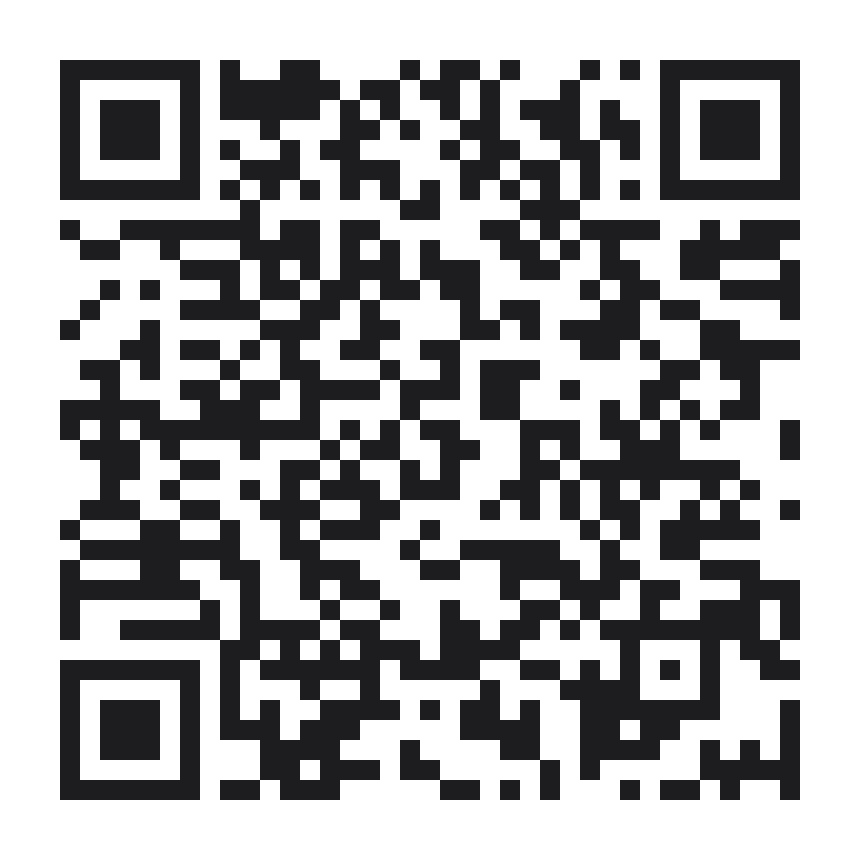
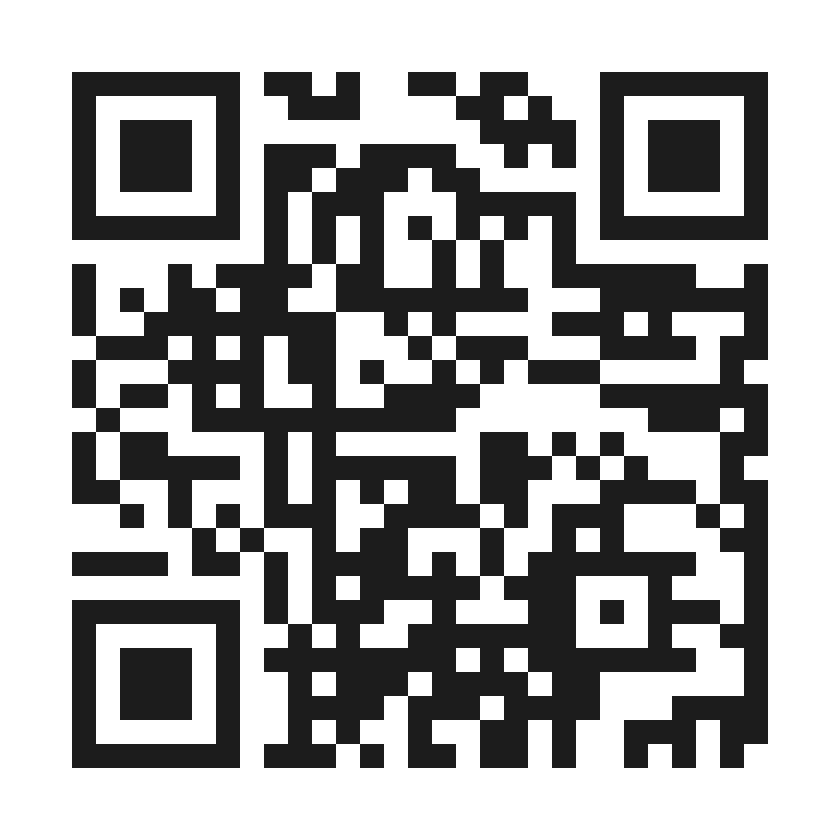
Shorten the vCard URL to simplify the printed QR pattern
Moving the file from assets/qr/new-kamal-metal-works.vcf to a
root-level kmw.vcf cuts the encoded URL from 68 to 40 characters,
dropping the QR from version 5 (43x43 modules) to version 3
(35x35) -- a visibly simpler, chunkier pattern that's easier to
scan at business-card size. Also bumped the on-page QR display
from 112px to 128px for extra clarity.

diff --git a/index.html b/index.html
@@ -434,10 +434,10 @@
         <div class="contact-card-qr">
           <picture>
             <source srcset="assets/qr/contact-qr-dark.png" media="(prefers-color-scheme: dark)">
-            <img class="contact-qr-code" src="assets/qr/contact-qr-light.png" width="168" height="168" loading="lazy" alt="QR code that saves New Kamal Metal Works' contact card &mdash; name, phone, email and website">
+            <img class="contact-qr-code" src="assets/qr/contact-qr-light.png" width="168" height="168" loading="lazy" alt="QR code linking to New Kamal Metal Works' contact card &mdash; scan to save our name, phone, email and website">
           </picture>
           <span class="contact-qr-label">Scan to save our contact</span>
-          <a class="contact-qr-download" href="assets/qr/new-kamal-metal-works.vcf" download="New Kamal Metal Works.vcf">Save Contact</a>
+          <a class="contact-qr-download" href="kmw.vcf" download="New Kamal Metal Works.vcf">Save Contact</a>
         </div>
       </div>
 

diff --git a/css/main.css b/css/main.css
@@ -1244,8 +1244,8 @@ p { margin: 0; text-wrap: pretty; }
   border-left: 1px solid var(--line);
 }
 .contact-qr-code {
-  width: 112px;
-  height: 112px;
+  width: 128px;
+  height: 128px;
   border-radius: 10px;
   background: var(--surface);
   padding: 6px;
